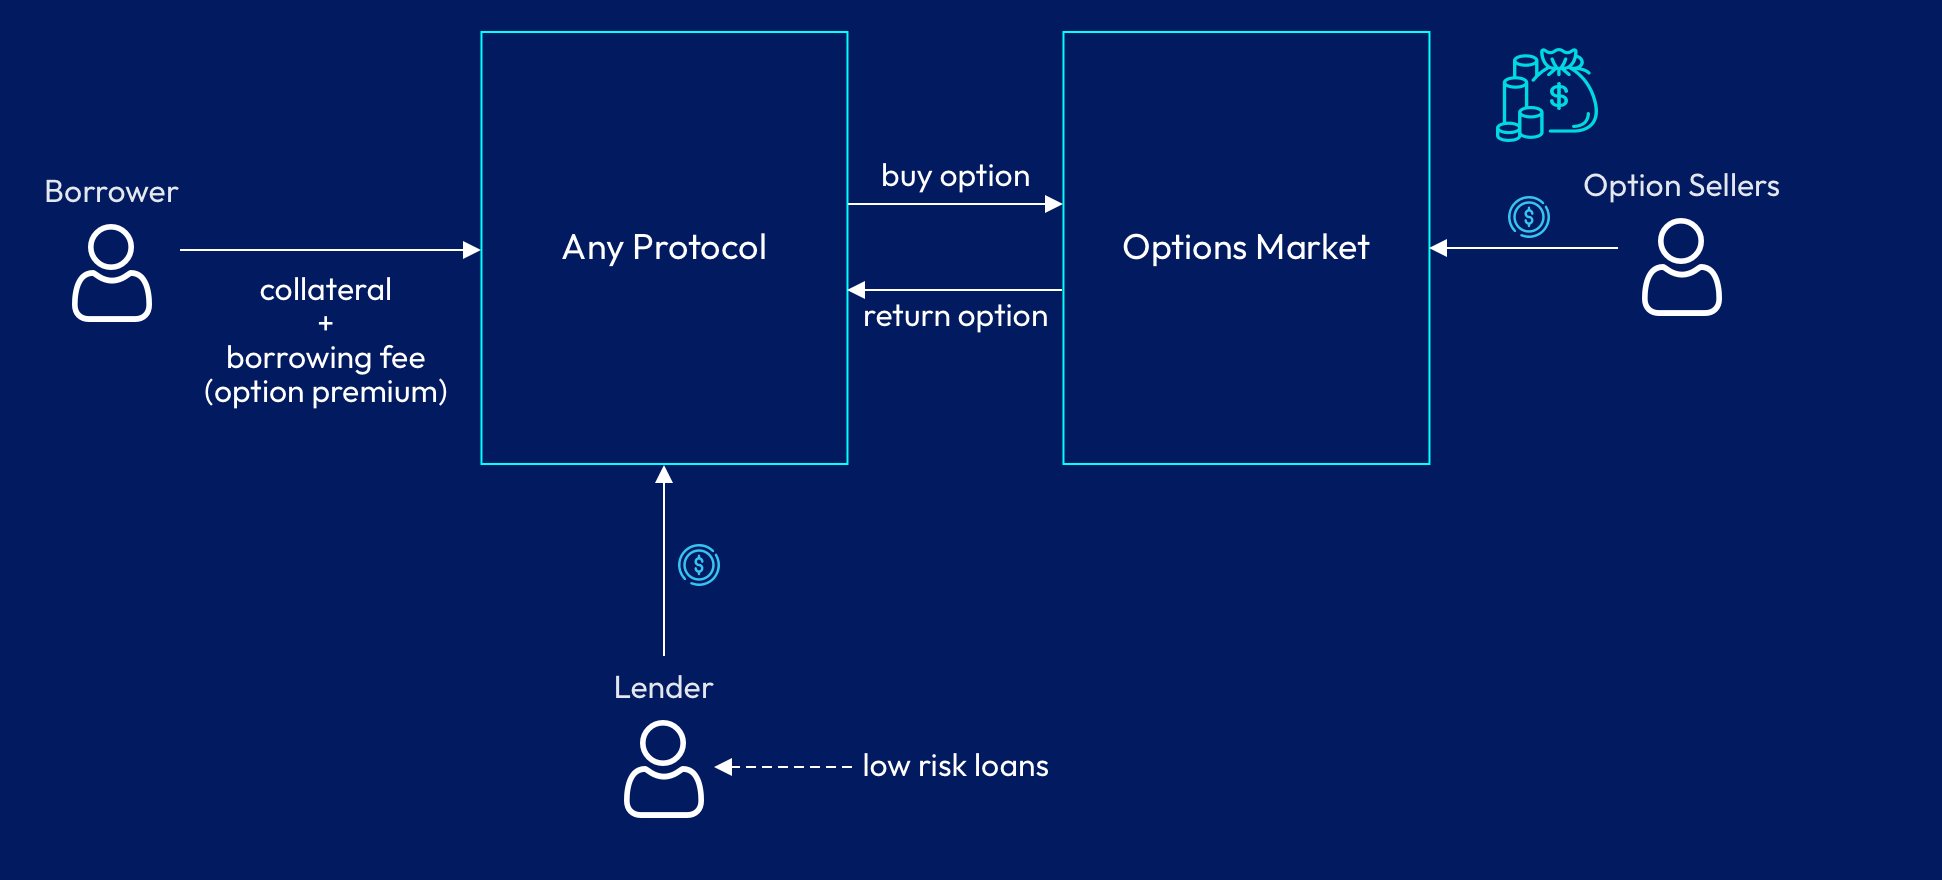
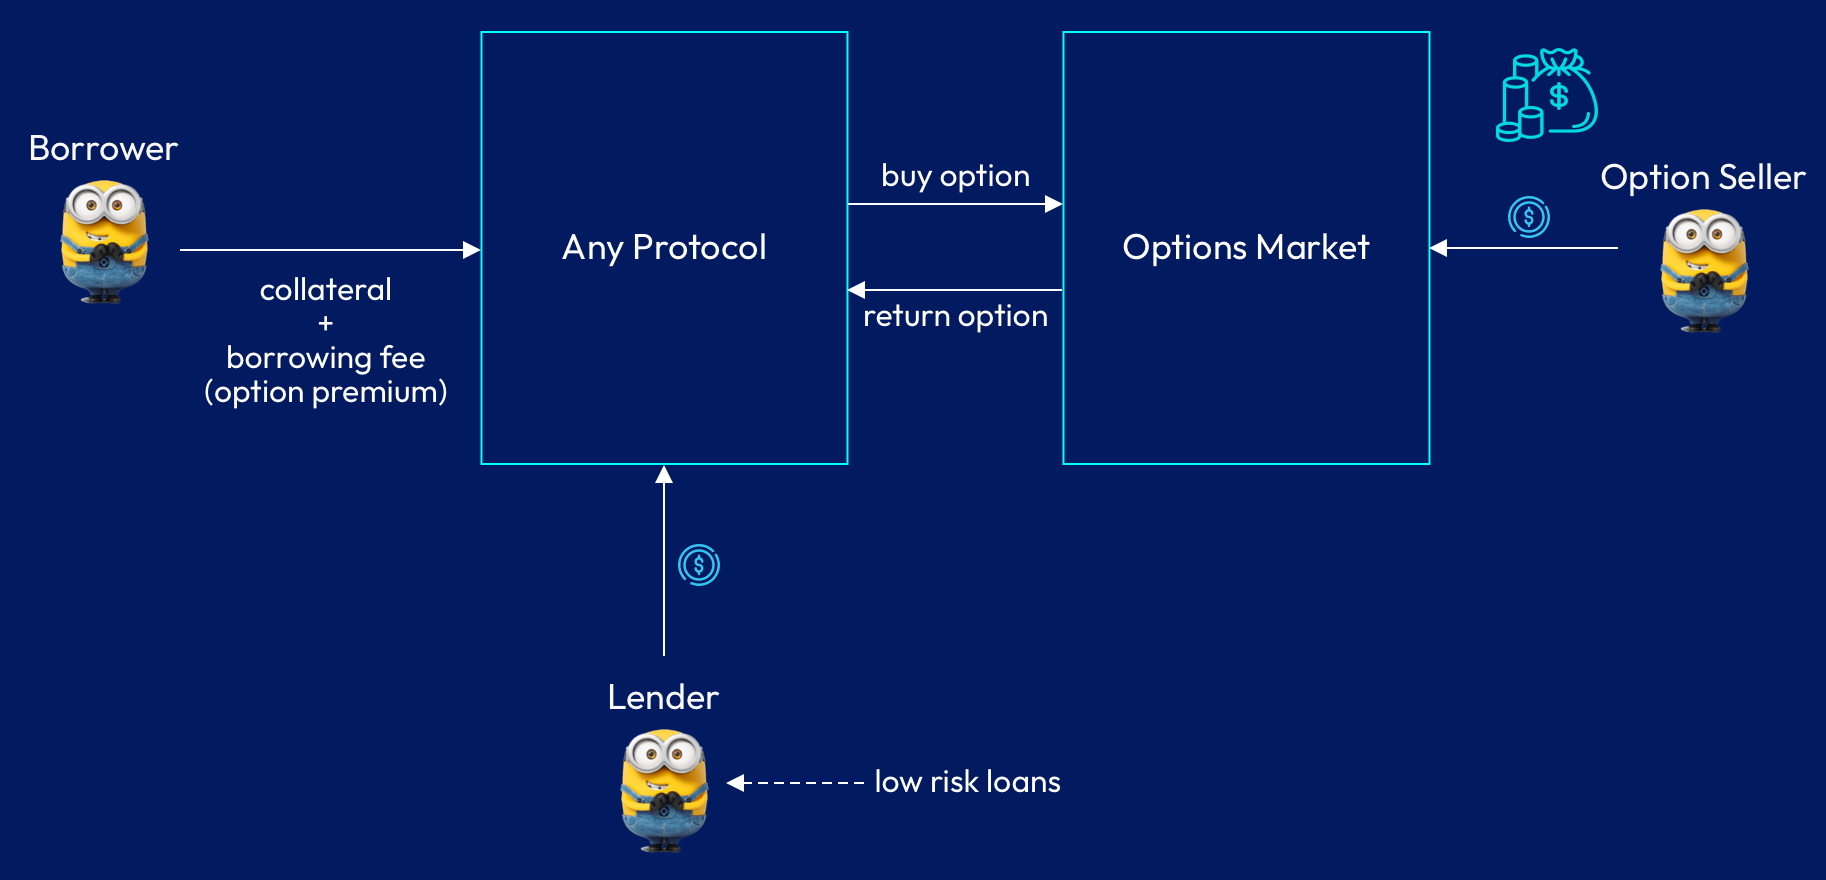
GitBook: [#102] No subject

diff --git a/features.md b/features.md
@@ -6,9 +6,11 @@ description: Here we describe the main features of the Cora Protocol
 
 **Capital Efficient**
 
+One of the main features of the Cora protocol its capital efficiency. \
+\
 Liquidity providers simple deposit stablecoins in the Lending pools. The version 1 of the protocol has unique Lending pools per pair of assets, for instance the pool **stETH-USDC** would accept stETH as collateral and offer loans in USDC.&#x20;
 
-The version 2 of the protocol will allow **multi collateral Lending pools**, where a single Lending pool will be able to accept a whole family of collateral types, for instance stETH, cbETH, RETH, ETH, WETH, ERC-4626 and offer loans in USDC or any other selected stablecoin .
+The version 2 of the protocol will allow **multi collateral Lending pools**, where a single Lending pool will be able to accept a whole family of collateral types, for instance stETH, cbETH, RETH, ETH, WETH, ERC-4626s and offer loans in USDC or any other selected stablecoin .
 
 One single pool of liquidity is used to offer loans of multiple durations and multiple LTVs. This has great benefits since there is **NOT** liquidity fragmentation.
 
@@ -37,7 +39,7 @@ We predict that once the DAO enables permissionless pool creation, this will all
 
 **Decentralized Pricing models**&#x20;
 
-The Cora Protocol will allow any external participant to propose new pricing models in the protocol. Accepted pricing models will be voted via governance and will be awarded with 1% of the total protocol fees for the lifetime of their pricing model.
+The Cora Protocol will allow any external participant to propose new pricing models in the protocol. Proposed pricing models will be voted via governance and will be awarded with **1% of the total protocol fees** for the lifetime of their pricing model if the performance of the Lending pool is positive.
 
 We expect quantitative finance analysts, financial engineers and any other participant to propose different pricing models that can help the overall health of the system and benefit Borrowers, Liquidity Providers and the Cora Protocol.&#x20;
 

diff --git a/protocol-concepts/how-cora-works.md b/protocol-concepts/how-cora-works.md
@@ -16,13 +16,13 @@ Imagine a user who has 10 ETH and 10 ETH Put Options with a strike price of $300
 
 If at expiration the price of ETH falls below $3000. The user can still sell the asset at $3000 due to the fact that he owns ETH Put Options.
 
-Considering put options can work as a protection mechanism to ensure user's collateral, we could think of a lending platform where borrowers can provide an underlying asset plus a Put Option in order to get a loan in Stablecoin for the value of the strike price. This is possible because in the worst case scenario, the lender can always exercise the Option using the borrower's collateral, and recover the total amount of Stablecoin that was initially lent.
+Considering put options can work as a protection mechanism to ensure user's collateral, we could think of a lending platform where borrowers can provide an underlying asset plus a Put Option in order to get a loan in stablecoin for the value of the strike price. This is possible because in the worst case scenario, the lender can always exercise the Option using the borrower's collateral, and recover the total amount of stablecoin that was initially lent.
 
 > Collateral + Put Option = Safe Loan
 
 An architecture for such system could look like:
 
-<figure><img src="../.gitbook/assets/how-it-works@2x (1).png" alt=""><figcaption></figcaption></figure>
+<figure><img src="../.gitbook/assets/how-it-works-white@2x.png" alt=""><figcaption></figcaption></figure>
 
 Notice how the borrower could simply provide his collateral plus a borrowing fee for the interest free and non liquidatable loan. Then the protocol could abstract the complexity of buying an Option in an external Option's market and the lender would be able to provide a loan without risk, since the risk is being taken by the Option seller, who is getting paid a Premium for doing so.&#x20;
 

diff --git a/README.md b/README.md
@@ -30,7 +30,7 @@ Cora solves both problems by introducing a new Defi Primitive:
 Lending + Options Strategies = **Cora**
 {% endhint %}
 
-This combination allow borrowers to get non liquidatable loans with optimised collateral ratios at a competitive [Borrowing Fee](protocol-concepts/borrowing-fees.md) and Liquidity Providers to provide stablecoins with a [Risk Management](protocol-concepts/risk-management.md) framework that helps them to avoid loses and maximise yield automatically.
+This combination allow borrowers to get non liquidatable loans with optimised collateral ratios at a competitive [Borrowing Fee](protocol-concepts/borrowing-fees.md) and Liquidity Providers to provide stablecoins with a [Risk Management](protocol-concepts/risk-management.md) framework that helps them to avoid loses and earn yield automatically.
 
 To learn more about how Cora works, see the [How Cora works](protocol-concepts/how-cora-works.md) section.
 

diff --git a/SUMMARY.md b/SUMMARY.md
@@ -35,8 +35,6 @@
 * [Repay a Loan](user-guides/repay-a-loan.md)
 * [Adding Liquidity](user-guides/adding-liquidity.md)
 * [Removing Liquidity](user-guides/removing-liquidity.md)
-* [Stake Cora](user-guides/stake-cora.md)
-* [Unstake Cora](user-guides/unstake-cora.md)
 
 ## Developers
 
